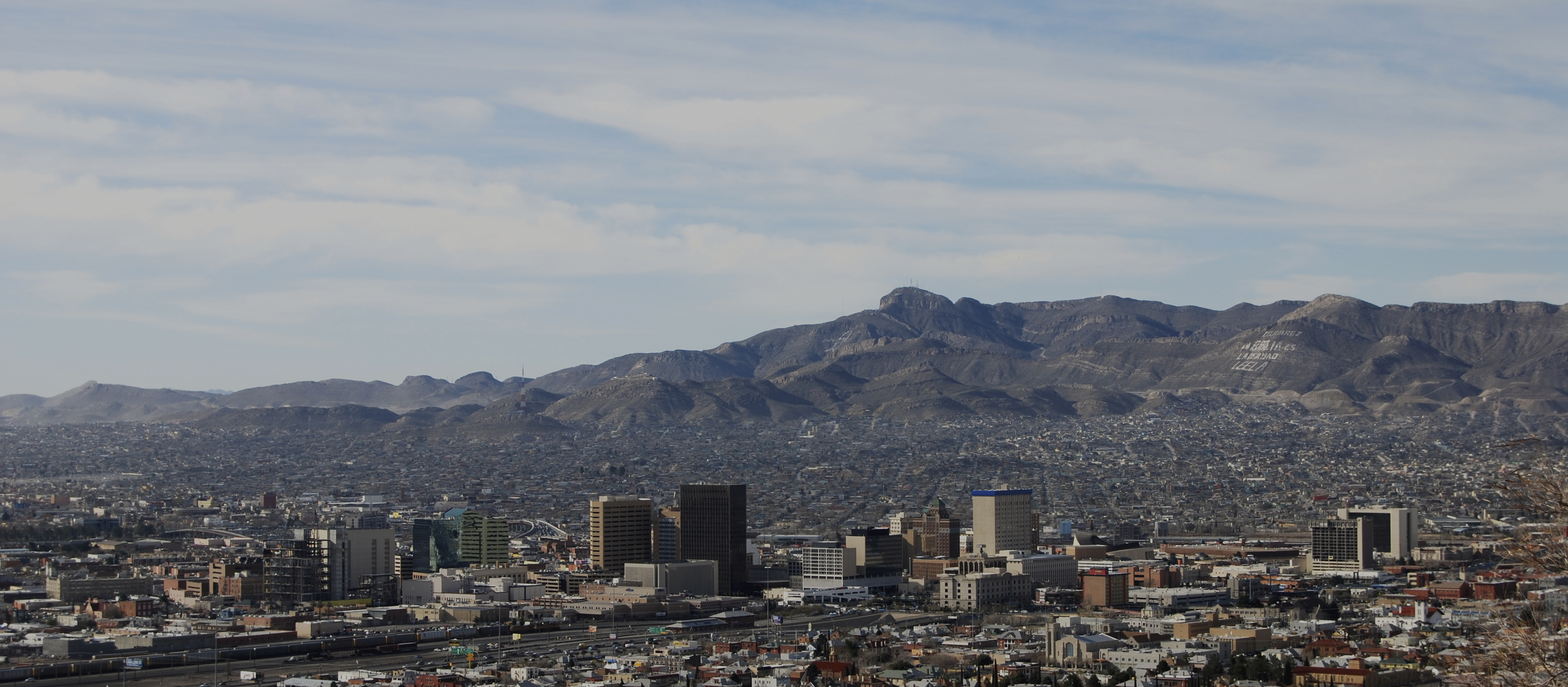
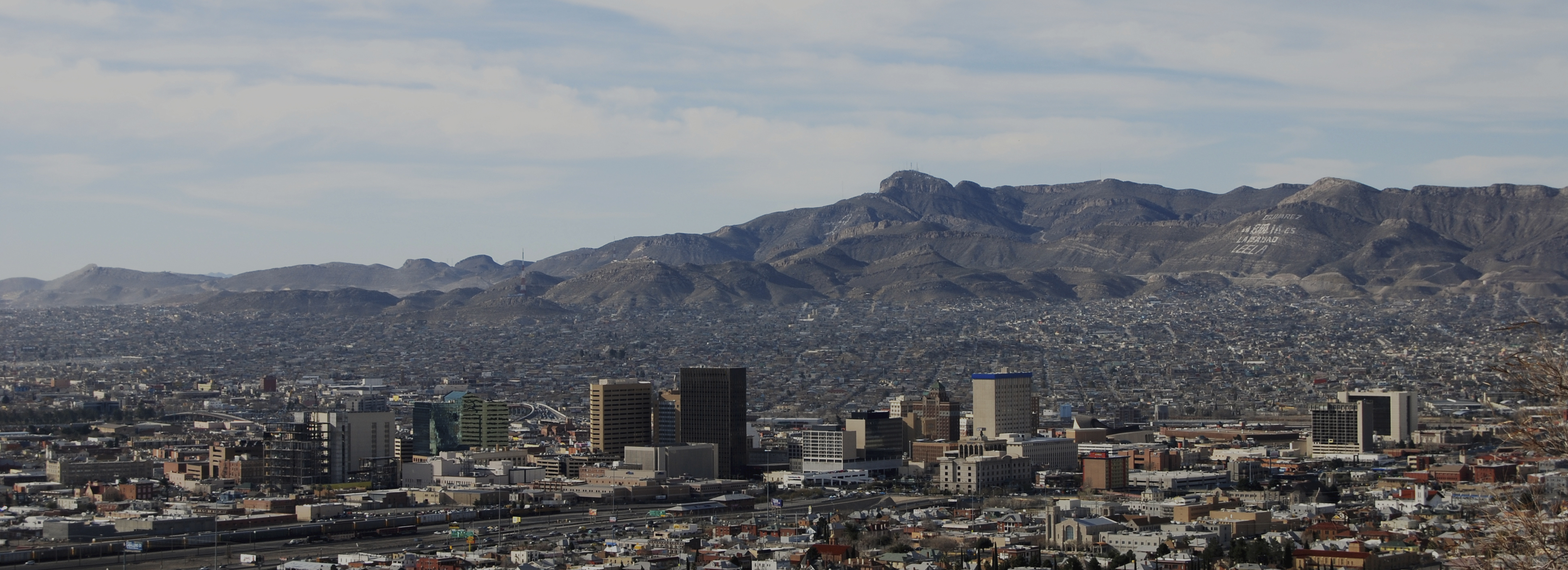
header links and image resize

diff --git a/blog.html b/blog.html
@@ -49,23 +49,23 @@
                     <span class="icon-bar"></span>
                     <span class="icon-bar"></span>
                 </button>
-                <a class="navbar-brand page-scroll" href="#page-top"><span class="white">Lenny Morales<span class="disappear_small"> for District Attorney</span></span></a>
+                <a class="navbar-brand page-scroll" href="index.html"><span class="white">Lenny Morales<span class="disappear_small"> for District Attorney</span></span></a>
             </div>
 
             <!-- Collect the nav links, forms, and other content for toggling -->
             <div class="collapse navbar-collapse" id="bs-example-navbar-collapse-1">
                 <ul class="nav navbar-nav navbar-left">
                     <li>
-                        <a class="page-scroll" href="#">About Lenny</a>
+                        <a class="page-scroll" href="lenny.html">About Lenny</a>
                     </li>
                     <li>
-                        <a class="page-scroll" href="#">Priorities</a>
+                        <a class="page-scroll" href="priorities.html">Priorities</a>
                     </li>
                     <li>
-                        <a class="page-scroll" href="#">Volunteer</a>
+                        <a class="page-scroll" href="volunteer.html">Volunteer</a>
                     </li>
                     <li>
-                        <a class="page-scroll" href="#">Blog</a>
+                        <a class="page-scroll" href="blog.html">Blog</a>
                     </li>                
                 </ul>
                 <ul class="nav navbar-nav navbar-right">

diff --git a/lenny.html b/lenny.html
@@ -49,23 +49,23 @@
                     <span class="icon-bar"></span>
                     <span class="icon-bar"></span>
                 </button>
-                <a class="navbar-brand page-scroll" href="#page-top"><span class="white">Lenny Morales<span class="disappear_small"> for District Attorney</span></span></a>
+                <a class="navbar-brand page-scroll" href="index.html"><span class="white">Lenny Morales<span class="disappear_small"> for District Attorney</span></span></a>
             </div>
 
             <!-- Collect the nav links, forms, and other content for toggling -->
             <div class="collapse navbar-collapse" id="bs-example-navbar-collapse-1">
                 <ul class="nav navbar-nav navbar-left">
                     <li>
-                        <a class="page-scroll" href="#">About Lenny</a>
+                        <a class="page-scroll" href="lenny.html">About Lenny</a>
                     </li>
                     <li>
-                        <a class="page-scroll" href="#">Priorities</a>
+                        <a class="page-scroll" href="priorities.html">Priorities</a>
                     </li>
                     <li>
-                        <a class="page-scroll" href="#">Volunteer</a>
+                        <a class="page-scroll" href="volunteer.html">Volunteer</a>
                     </li>
                     <li>
-                        <a class="page-scroll" href="#">Blog</a>
+                        <a class="page-scroll" href="blog.html">Blog</a>
                     </li>                
                 </ul>
                 <ul class="nav navbar-nav navbar-right">

diff --git a/priorities.html b/priorities.html
@@ -49,23 +49,23 @@
                     <span class="icon-bar"></span>
                     <span class="icon-bar"></span>
                 </button>
-                <a class="navbar-brand page-scroll" href="#page-top"><span class="white">Lenny Morales<span class="disappear_small"> for District Attorney</span></span></a>
+                <a class="navbar-brand page-scroll" href="index.html"><span class="white">Lenny Morales<span class="disappear_small"> for District Attorney</span></span></a>
             </div>
 
             <!-- Collect the nav links, forms, and other content for toggling -->
             <div class="collapse navbar-collapse" id="bs-example-navbar-collapse-1">
                 <ul class="nav navbar-nav navbar-left">
                     <li>
-                        <a class="page-scroll" href="#">About Lenny</a>
+                        <a class="page-scroll" href="lenny.html">About Lenny</a>
                     </li>
                     <li>
-                        <a class="page-scroll" href="#">Priorities</a>
+                        <a class="page-scroll" href="priorities.html">Priorities</a>
                     </li>
                     <li>
-                        <a class="page-scroll" href="#">Volunteer</a>
+                        <a class="page-scroll" href="volunteer.html">Volunteer</a>
                     </li>
                     <li>
-                        <a class="page-scroll" href="#">Blog</a>
+                        <a class="page-scroll" href="blog.html">Blog</a>
                     </li>                
                 </ul>
                 <ul class="nav navbar-nav navbar-right">

diff --git a/volunteer.html b/volunteer.html
@@ -49,23 +49,23 @@
                     <span class="icon-bar"></span>
                     <span class="icon-bar"></span>
                 </button>
-                <a class="navbar-brand page-scroll" href="#page-top"><span class="white">Lenny Morales<span class="disappear_small"> for District Attorney</span></span></a>
+                <a class="navbar-brand page-scroll" href="index.html"><span class="white">Lenny Morales<span class="disappear_small"> for District Attorney</span></span></a>
             </div>
 
             <!-- Collect the nav links, forms, and other content for toggling -->
             <div class="collapse navbar-collapse" id="bs-example-navbar-collapse-1">
                 <ul class="nav navbar-nav navbar-left">
                     <li>
-                        <a class="page-scroll" href="#">About Lenny</a>
+                        <a class="page-scroll" href="lenny.html">About Lenny</a>
                     </li>
                     <li>
-                        <a class="page-scroll" href="#">Priorities</a>
+                        <a class="page-scroll" href="priorities.html">Priorities</a>
                     </li>
                     <li>
-                        <a class="page-scroll" href="#">Volunteer</a>
+                        <a class="page-scroll" href="volunteer.html">Volunteer</a>
                     </li>
                     <li>
-                        <a class="page-scroll" href="#">Blog</a>
+                        <a class="page-scroll" href="blog.html">Blog</a>
                     </li>                
                 </ul>
                 <ul class="nav navbar-nav navbar-right">

diff --git a/index.html b/index.html
@@ -56,13 +56,13 @@
             <div class="collapse navbar-collapse" id="bs-example-navbar-collapse-1">
                 <ul class="nav navbar-nav navbar-left">
                     <li>
-                        <a class="page-scroll" href="#">About Lenny</a>
+                        <a class="page-scroll" href="lenny.html">About Lenny</a>
                     </li>
                     <li>
-                        <a class="page-scroll" href="#">Priorities</a>
+                        <a class="page-scroll" href="priorities.html">Priorities</a>
                     </li>
                     <li>
-                        <a class="page-scroll" href="#">Volunteer</a>
+                        <a class="page-scroll" href="volunteer.html">Volunteer</a>
                     </li>
                     <li>
                         <a class="page-scroll" href="blog.html">Blog</a>
